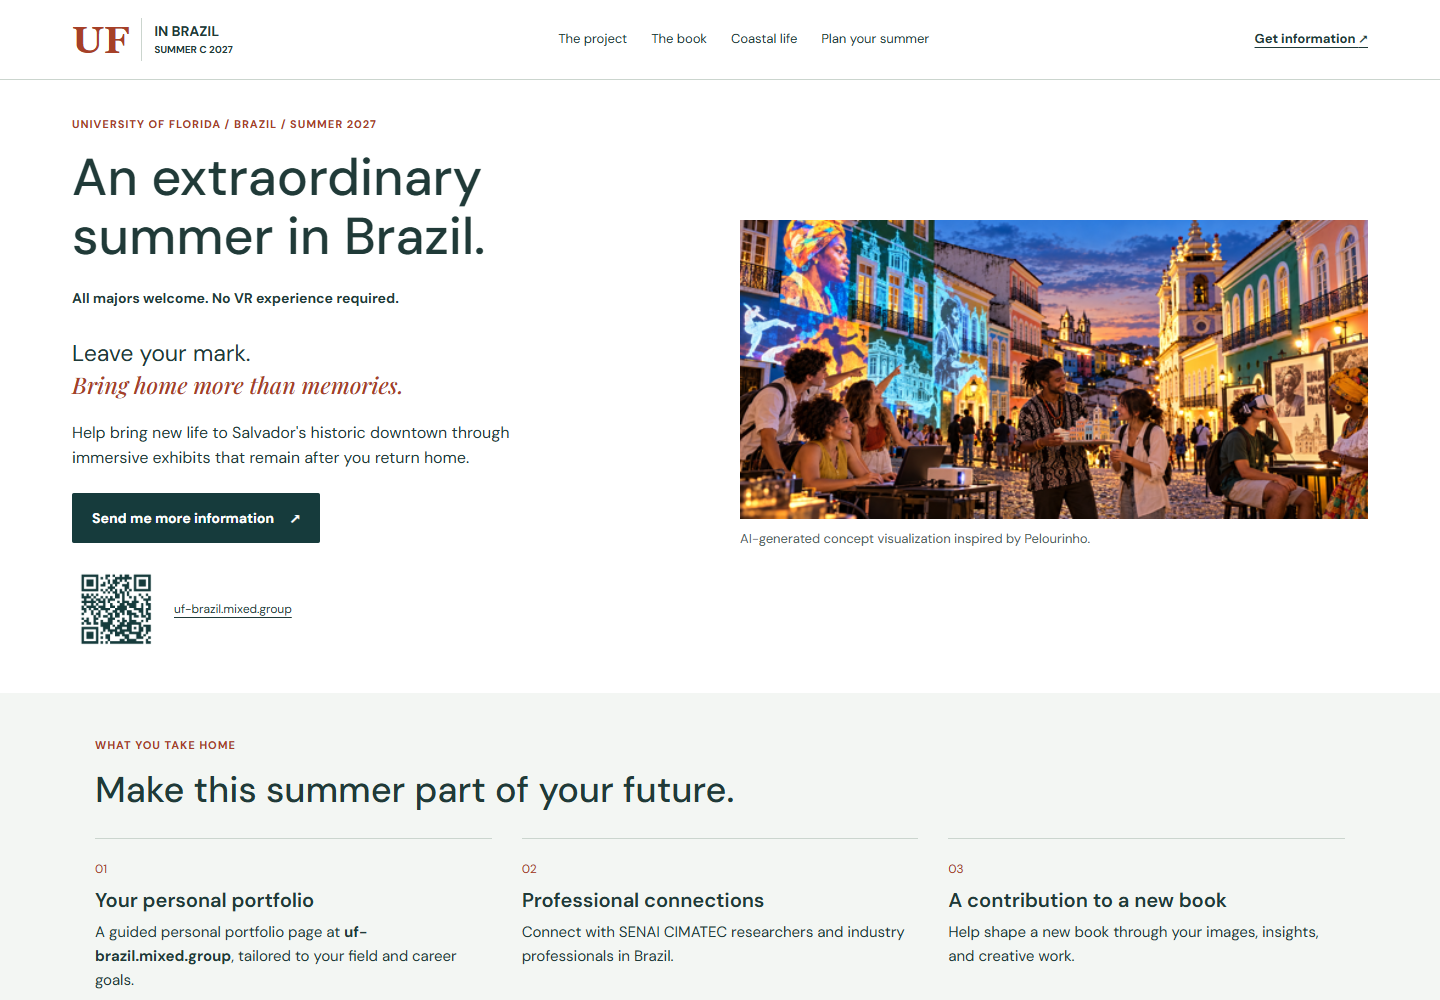
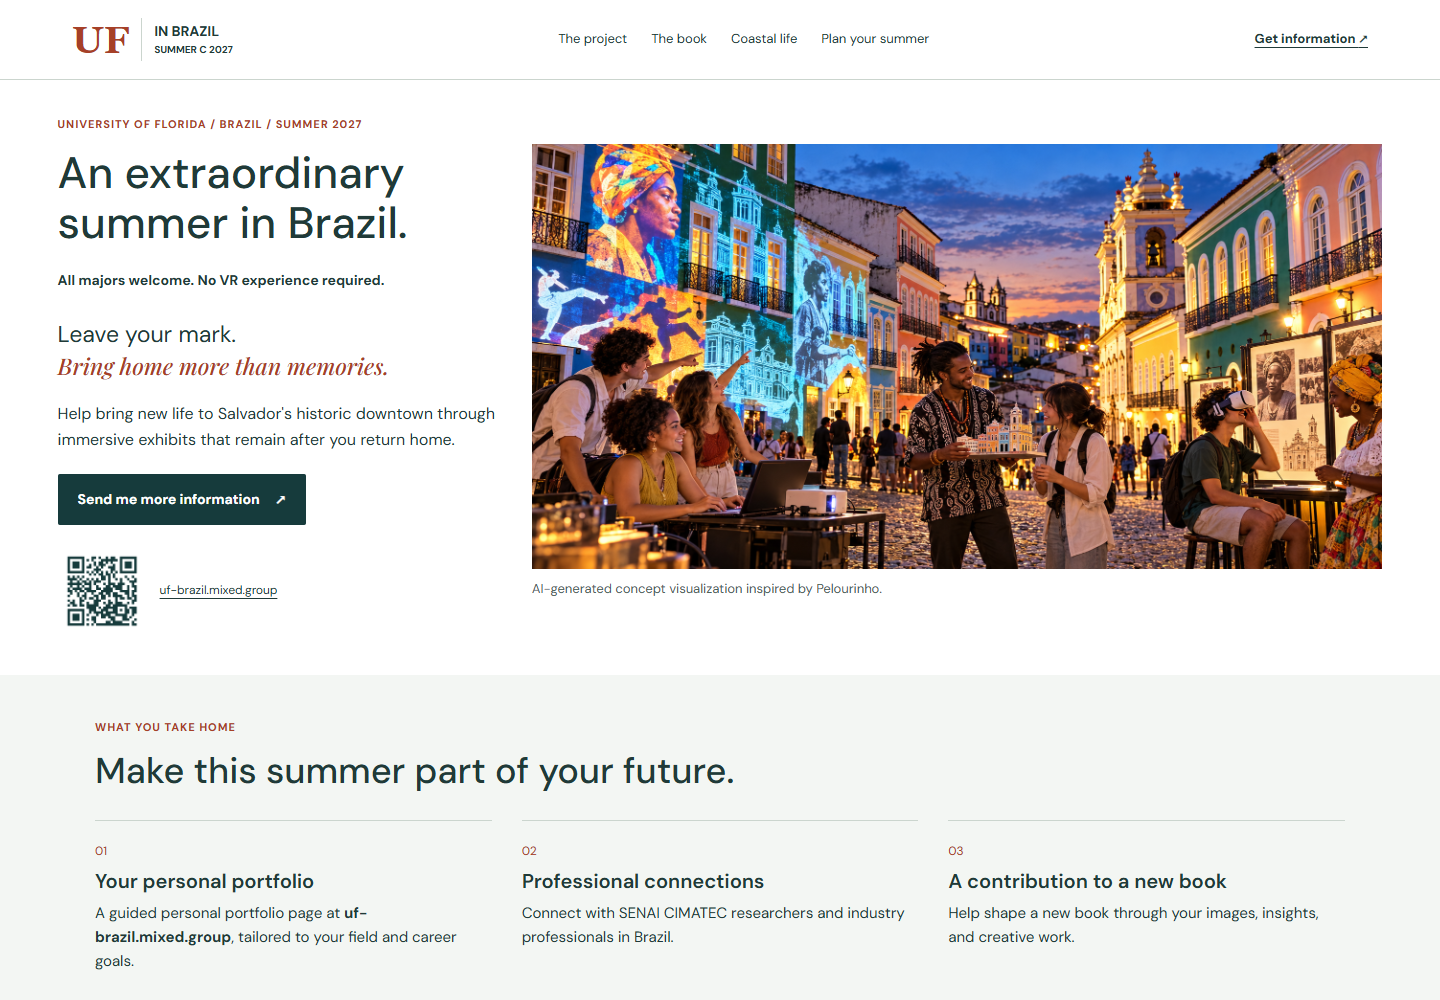
Give immersive opening image more desktop space

diff --git a/index.html b/index.html
@@ -44,8 +44,8 @@
           <img
             src="assets/pelourinho-immersive-concept.png"
             alt="AI-generated concept of students prototyping immersive experiences in Pelourinho, with laptops, VR headsets, and projections across historic buildings"
-            width="516"
-            height="246"
+            width="1774"
+            height="887"
             fetchpriority="high"
           />
           <figcaption>

diff --git a/styles.css b/styles.css
@@ -1053,3 +1053,19 @@ footer {
   font-size: 13px;
   margin-top: 8px;
 }
+@media (min-width: 1001px) {
+  .hero {
+    grid-template-columns: minmax(0, 0.85fr) minmax(0, 1.65fr);
+    gap: 0 36px;
+    max-width: 1680px;
+    padding-left: 4%;
+    padding-right: 4%;
+  }
+  .hero h1 {
+    font-size: 44px;
+  }
+  .hero-photo {
+    align-self: start;
+    margin-top: 28px;
+  }
+}

diff --git a/docs/RELEASE.md b/docs/RELEASE.md
@@ -46,6 +46,8 @@ Alex supplied `Updated Author Credit Book Mockup.png`, now included as `assets/b
 
 ## Verification
 
+The opening asset was subsequently upgraded from the PDF extraction to Alex's supplied full-resolution `Students project stories onto Pelourinho.png` (1774 x 887). Desktop allocates approximately two-thirds of the hero to this image; the entire scene remains uncropped on every checked viewport.
+
 Run `npm ci`, install a Playwright Chromium browser (`npx playwright install chromium`), then `npm run check`. On Windows with installed Edge, use `$env:PLAYWRIGHT_CHANNEL='msedge'; npm run check` instead.
 
 The checks cover desktop 1440px, tablet 820px, phones 390px/320px, signup layouts, horizontal overflow, loaded images, internal anchors, seven-section order, book positioning in the first half, opening photo in the mobile first screen, keyboard skip/disclosure controls, reduced motion, and WCAG A/AA automated axe checks. Signup tests use local intercepted responses only; no real registrations or email are sent. Accepted, rejected, ambiguous-200, and network-failure cases are covered, as are email-only requirements and guide/book configuration integration.

diff --git a/docs/PR.md b/docs/PR.md
@@ -10,6 +10,8 @@ Alex's supplied author-credit book mockup now replaces the initial sample spread
 
 ## Validation
 
+The supplied high-resolution `Students project stories onto Pelourinho.png` replaces the PDF-extracted opening asset. Desktop now gives the image roughly two-thirds of the hero width (about 850px at a 1440px viewport), with compact copy alongside it. The complete scene and concept caption remain visible; phone reading order is preserved.
+
 The opening now uses the approved AI-generated immersive-project scene from the latest guide, with the exact concept caption. Desktop and mobile show the full scene without trimming students, projections, or prototypes. The original photograph appears as authentic Pelourinho destination imagery in coastal life and remains on the signup page.
 
 - `npm run check` in Chromium-based Edge: 1440px desktop, 820px tablet, 390px and 320px phones; signup desktop/phone.
